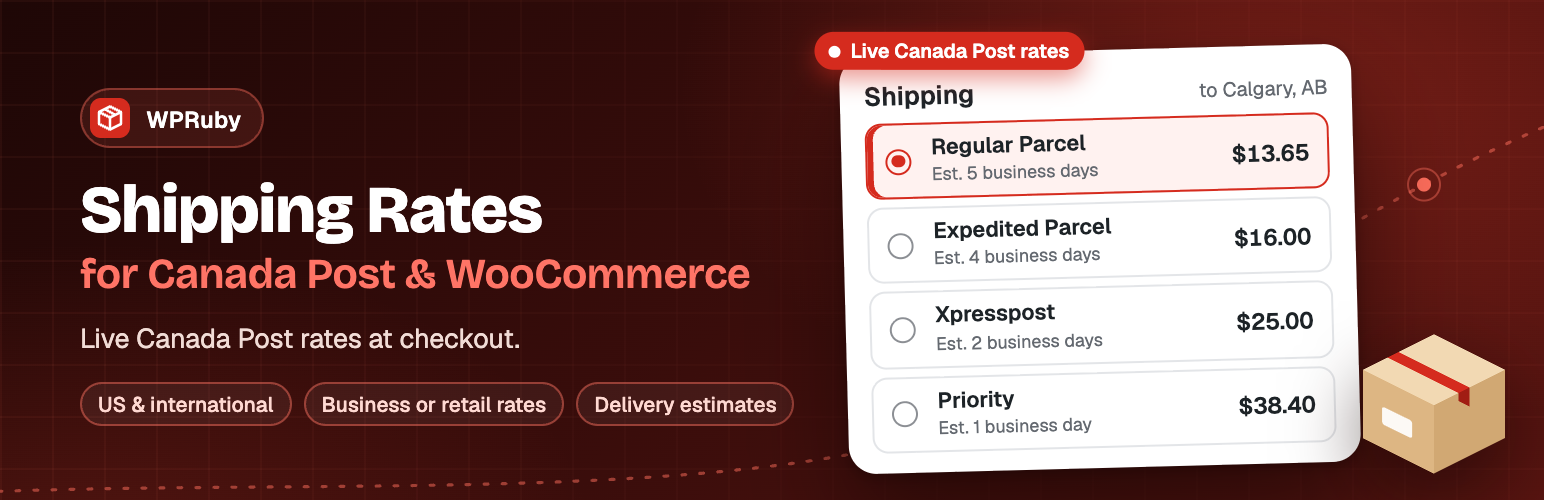
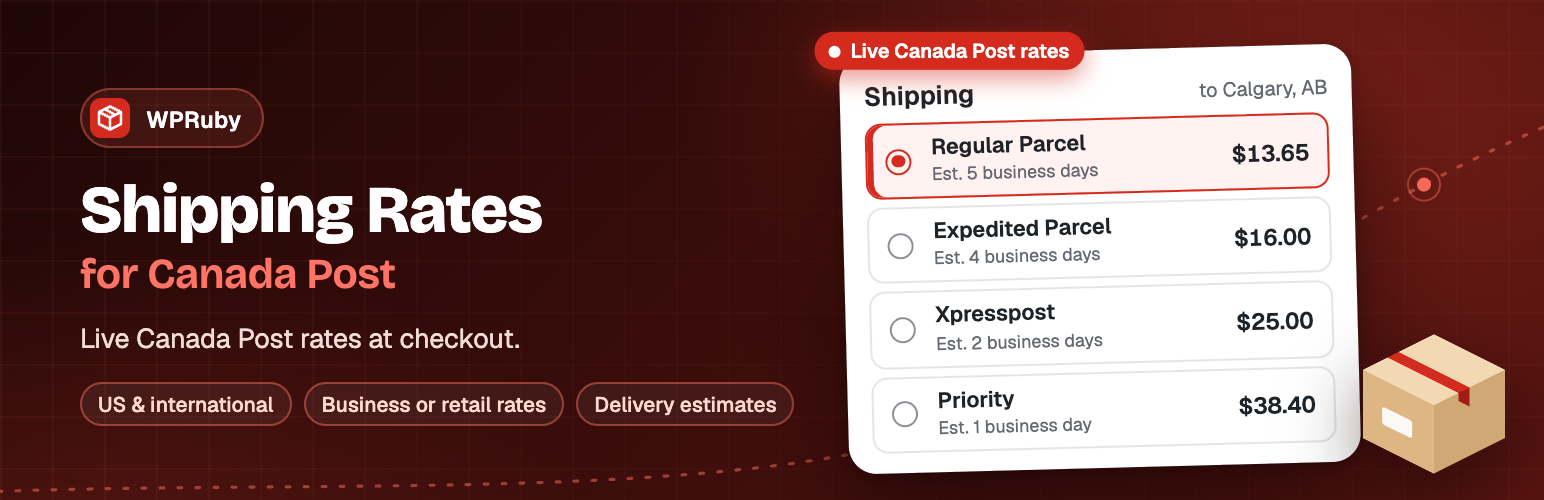
Drop WooCommerce from the plugin name
wordpress.org reviewers don't allow the restricted term "woocommerce" in the
display name. The plugin is now "WPRuby Shipping Rates for Canada Post";
the slug is unchanged. Banner headline updated to match.

Changed region(s): [[0.2487, 0.51, 0.4974, 0.6]]

diff --git a/.wordpress-org/src/banner.html b/.wordpress-org/src/banner.html
@@ -99,7 +99,7 @@
       <svg viewBox="0 0 40 40" fill="none"><rect width="40" height="40" rx="11" fill="#d52b1e"/><path d="M20 8.5 31 14v12L20 31.5 9 26V14z" stroke="#fff" stroke-width="2.6" stroke-linejoin="round"/><path d="M9 14l11 5.5L31 14M20 19.5v12M14.5 11.2l11 5.6" stroke="#fff" stroke-width="2.6" stroke-linejoin="round"/></svg>
       WPRuby
     </span>
-    <h1>Shipping Rates<span class="soft">for Canada Post &amp; WooCommerce</span></h1>
+    <h1>Shipping Rates<span class="soft">for Canada Post</span></h1>
     <p class="tagline">Live Canada Post rates at checkout.</p>
     <div class="chips"><span class="chip">US &amp; international</span><span class="chip">Business or retail rates</span><span class="chip">Delivery estimates</span></div>
   </div>

diff --git a/wpruby-shipping-rates-canada-post.php b/wpruby-shipping-rates-canada-post.php
@@ -1,6 +1,6 @@
 <?php
 /**
- * Plugin Name:          WPRuby Shipping Rates for Canada Post and WooCommerce
+ * Plugin Name:          WPRuby Shipping Rates for Canada Post
  * Plugin URI:           https://wordpress.org/plugins/wpruby-shipping-rates-canada-post/
  * Description:          Live Canada Post shipping rates at WooCommerce checkout: Regular Parcel, Expedited Parcel, Xpresspost, Priority, and US and international services, from your own Canada Post account.
  * Version:              1.0.0

diff --git a/README.md b/README.md
@@ -1,4 +1,4 @@
-# WPRuby Shipping Rates for Canada Post and WooCommerce
+# WPRuby Shipping Rates for Canada Post
 
 Free wordpress.org plugin: live Canada Post rates at WooCommerce checkout, from Canada Post's Rating API (Developer Portal, OAuth 2.0 client credentials).
 
